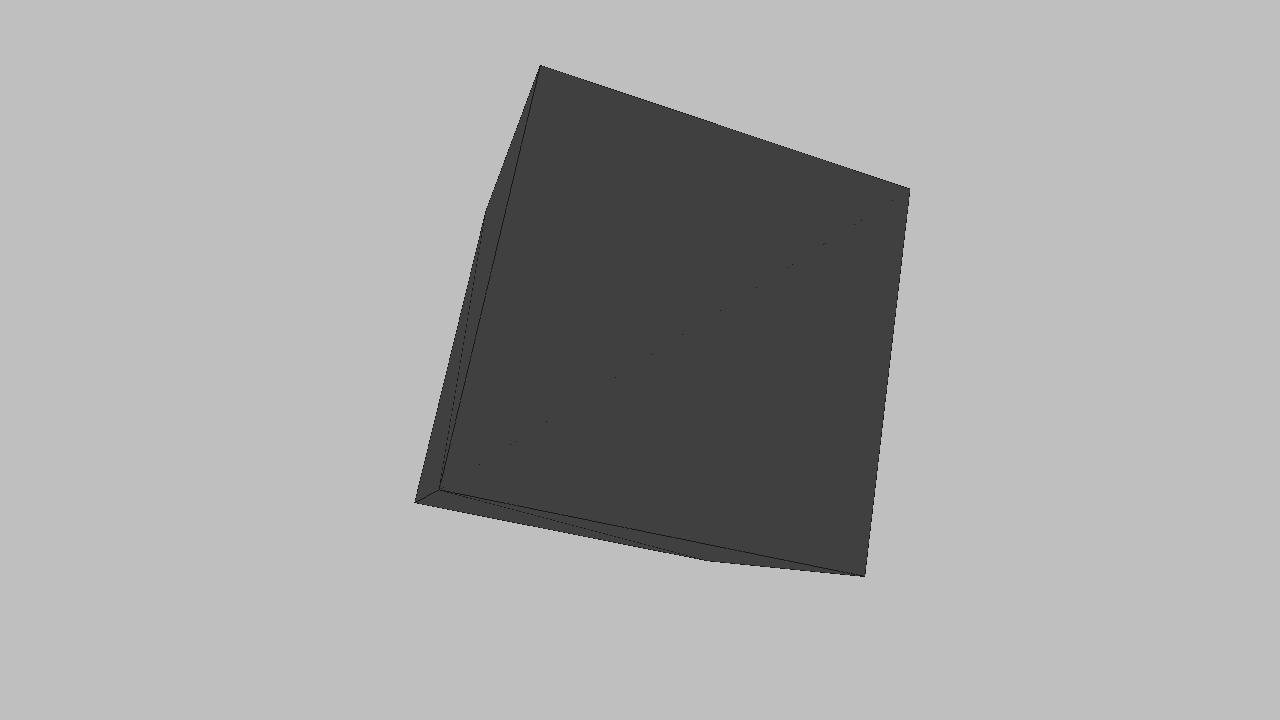
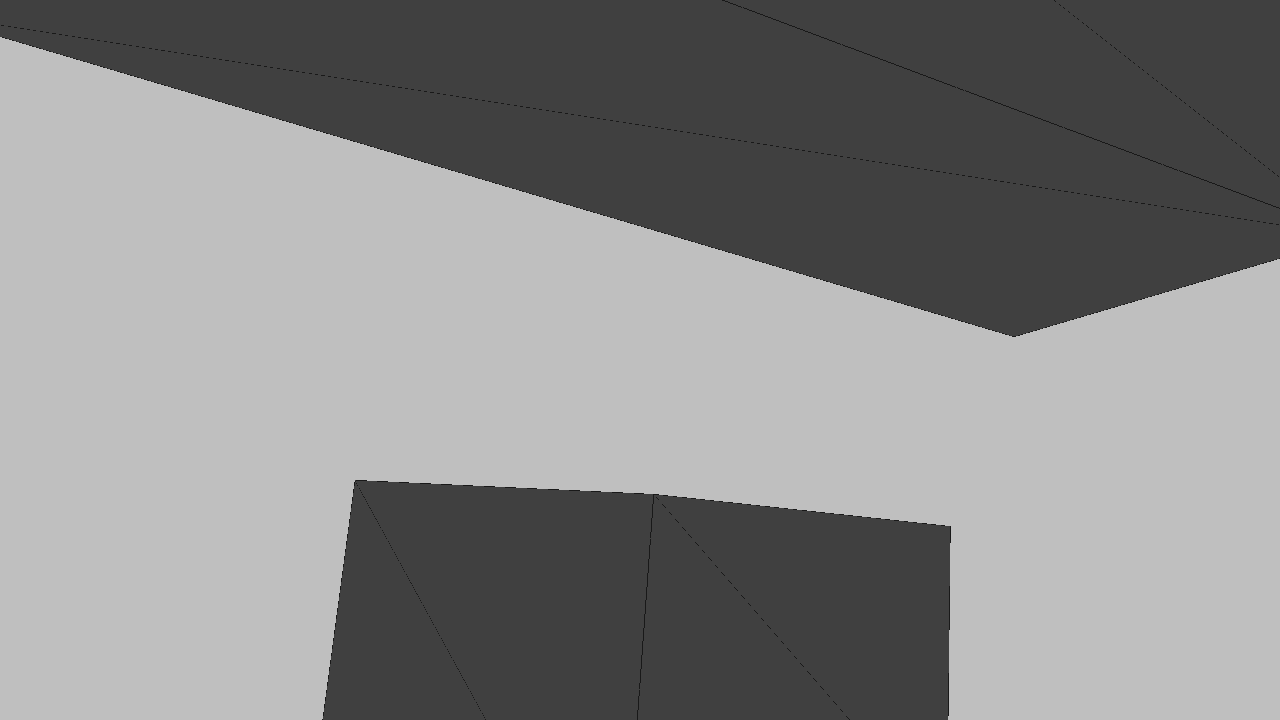
Intersection test RT

diff --git a/OpenGL/OpenGL-Sandbox/src/MyCore/RayTracer/Renderer.cpp b/OpenGL/OpenGL-Sandbox/src/MyCore/RayTracer/Renderer.cpp
@@ -7,10 +7,10 @@ void RTRender(Scene& scene, unsigned int width, unsigned int height, std::string
 
 	// Camera
 	float viewport_height = 2.0f;
-	float viewport_width = aspect_ratio * viewport_height;
+	float viewport_width = scene.GetAspect() * viewport_height;
 	float focal_length = 1.0f;
 
-	glm::vec3 origin(0.0f, 0.0f, 0.0f);
+	glm::vec3 origin = scene.GetCameraPosition();
 	glm::vec3 horizontal(viewport_width, 0.0f, 0.0f);
 	glm::vec3 vertical(0.0f, viewport_height, 0.0f);
 	glm::vec3 lower_left_corner = origin - horizontal / 2.0f - vertical / 2.0f - glm::vec3(0.0f, 0.0f, focal_length);
@@ -25,7 +25,7 @@ void RTRender(Scene& scene, unsigned int width, unsigned int height, std::string
 	{
 		for (int i = 0; i < width; ++i)
 		{
-			if (count % 1000 == 0)
+			if (count % 3000 == 0)
 			{
 				buff = Convert(count / nPixels * 100.0f) + "%";
 				LOG_INFO(buff.c_str());
@@ -34,7 +34,7 @@ void RTRender(Scene& scene, unsigned int width, unsigned int height, std::string
 			float u = float(i) / (width - 1);
 			float v = float(j) / (height - 1);
 			Ray ray(origin, lower_left_corner + u * horizontal + v * vertical - origin);
-			glm::vec3 pixel_color = ray_color(ray);
+			glm::vec3 pixel_color = ray_color(scene, ray, 0);
 
 			pixels[count++] = (unsigned int)(pixel_color.x * 255);
 			pixels[count++] = (unsigned int)(pixel_color.y * 255);
@@ -49,34 +49,133 @@ void RTRender(Scene& scene, unsigned int width, unsigned int height, std::string
 	LOG_INFO(buff.c_str());
 }
 
-float hit_sphere(const glm::vec3& center, float radius, Ray& ray) {
-	glm::vec3 oc = ray.GetOrigin() - center;
-	auto a = glm::dot(ray.GetDirection(), ray.GetDirection());
-	auto b = 2.0f * glm::dot(oc, ray.GetDirection());
-	auto c = glm::dot(oc, oc) - radius * radius;
-	auto discriminant = b * b - 4.0f * a * c;
-	if (discriminant < 0)
+glm::vec3 ray_color(Scene& scene, Ray& primRay, int depth)
+{
+	hit_record hit;
+	float minDist = FLT_MAX; // std::numeric_limits<float>::max();
+
+	bool hitMesh = false;
+	std::list<SceneNode> objects = scene.GetNodes();
+	auto hitObject = objects.begin();
+
+	// for (auto& it : objects)
+	for (auto it = objects.begin(); it != objects.end(); ++it)
 	{
-		return -1.0f;
+		if (Intersect(*it, primRay, hit))
+		{
+			float distance = glm::distance(scene.GetCameraPosition(), hit.m_Point);
+			if (distance < minDist)
+			{
+				hitMesh = true;
+				hitObject = it;
+			}
+		}
 	}
-	else
+
+	if (!hitMesh) // Background
 	{
-		return (-b - sqrt(discriminant)) / (2.0f * a);
+		glm::vec3 uDir = glm::normalize(primRay.GetDirection());
+		float t = 0.5f * (uDir.y + 1.0f);
+		return (1.0f - t) * glm::vec3(1.0f, 1.0f, 1.0f) + t * glm::vec3(0.1f, 0.3f, 0.4f);
 	}
+
+	/*if (hitObject != objects.end())
+	{
+
+	}*/
+
+	return glm::vec3(1.0f);
 }
 
-glm::vec3 ray_color(Ray& ray)
+bool Intersect(SceneNode& node, Ray& ray, hit_record& hit)
 {
-	float t = hit_sphere(glm::vec3(0.0f, 0.0f, -1.0f), 0.5f, ray);
-	if (t > 0.0f)
+	bool intersect = false;
+	float tNear = FLT_MAX;
+
+	glm::mat4 modelMatrix = node.GetModelMatrix();
+
+	for (int i = 0; i < node.GetNumFaces(); ++i)
 	{
-		glm::vec3 N = glm::normalize(ray.at(t) - glm::vec3(0.0f, 0.0f, -1.0f));
-		return 0.5f * glm::vec3(N.x + 1.0f, N.y + 1.0f, N.z + 1.0f);
+		std::vector<Vertex> vertices = node.GetFace(i);
+		vertices[0].Position = modelMatrix * glm::vec4(vertices[0].Position, 1.0f);
+		vertices[1].Position = modelMatrix * glm::vec4(vertices[1].Position, 1.0f);
+		vertices[2].Position = modelMatrix * glm::vec4(vertices[2].Position, 1.0f);
+
+		auto test = modelMatrix * glm::vec4(1.0f);
+
+		glm::vec3 normalF = node.GetNormal(i);
+
+		float t = FLT_MAX;
+		if (IntersectTriangle(vertices, normalF, ray, t) && t < tNear)
+		{
+			hit.m_Point = ray.at(t);
+			hit.t = t;
+
+			tNear = t;
+			intersect = true;
+		}
 	}
 
-	glm::vec3 uDir = glm::normalize(ray.GetDirection());
-	float t = 0.5f * (uDir.y + 1.0f);
-	return (1.0f - t) * glm::vec3(1.0f, 1.0f, 1.0f) + t * glm::vec3(0.5f, 0.7f, 1.0f);
+	return intersect;
+}
+
+bool IntersectTriangle(std::vector<Vertex>& vertices, glm::vec3& normal, Ray& ray, float& t)
+{
+	glm::vec3 edge1 = vertices[1].Position - vertices[0].Position;
+	glm::vec3 edge2 = vertices[2].Position - vertices[0].Position;
+	glm::vec3 pvec = glm::cross(ray.GetDirection(), edge2);
+	float det = glm::dot(edge1, pvec);
+	if (det <= 0) return false;
+
+	glm::vec3 tvec = ray.GetOrigin() - vertices[0].Position;
+	float u = glm::dot(tvec, pvec);
+	if (u < 0 || u > det) return false;
+
+	glm::vec3 qvec = glm::cross(tvec, edge1);
+	float v = glm::dot(ray.GetDirection(), qvec);
+	if (v < 0 || u + v > det) return false;
+
+	float invDet = 1 / det;
+
+	t = glm::dot(edge2, qvec) * invDet;
+
+	return true;
+
+	/*// Check if ray and plane are parallel
+	float dotDir = glm::dot(normal, ray.GetDirection());
+	if (fabs(dotDir) < EPSILON) false;
+
+	// Compute d from the equation of a plane - ax + by + cz + d = 0, n = (a,b,c)
+	float d = glm::dot(normal, vertices[0].Position);
+
+	// Compute t
+	float dotOrigin = glm::dot(normal, ray.GetOrigin());
+	t = -(dotOrigin + d) / dotDir;
+	if (t < 0) false; // Triangle is behind ray
+
+	// Compute intersection point with plane
+	glm::vec3 hitPoint = ray.at(t);
+
+	// Check if intersection point is inside triangle
+	glm::vec3 C;
+
+	glm::vec3 v01 = vertices[1].Position - vertices[0].Position;
+	glm::vec3 v12 = vertices[2].Position - vertices[1].Position;
+	glm::vec3 v20 = vertices[0].Position - vertices[2].Position;
+
+	glm::vec3 vp0 = hitPoint - vertices[0].Position;
+	C = glm::cross(v01, vp0);
+	if (glm::dot(normal, C) < 0.0f) return false;
+
+	glm::vec3 vp1 = hitPoint - vertices[1].Position;
+	C = glm::cross(v12, vp1);
+	if (glm::dot(normal, C) < 0.0f) return false;
+
+	glm::vec3 vp2 = hitPoint - vertices[2].Position;
+	C = glm::cross(v20, vp2);
+	if (glm::dot(normal, C) < 0.0f) return false;
+
+	return true;*/
 }
 
 std::string Convert(float number)

diff --git a/OpenGL/OpenGL-Sandbox/src/MyCore/Mesh/Mesh.cpp b/OpenGL/OpenGL-Sandbox/src/MyCore/Mesh/Mesh.cpp
@@ -52,6 +52,25 @@ void Mesh::Draw()
 	glDrawElements(GL_TRIANGLES, m_ib.GetCount(), GL_UNSIGNED_INT, nullptr);
 }
 
+std::vector<Vertex> Mesh::GetFace(int nFace)
+{
+	int pos = nFace * 3;
+	std::vector<Vertex> vertices;
+	vertices.push_back(m_Vertices[m_Indices[pos]]);
+	vertices.push_back(m_Vertices[m_Indices[pos + 1]]);
+	vertices.push_back(m_Vertices[m_Indices[pos + 2]]);
+	return vertices;
+}
+
+glm::vec3 Mesh::GetNormal(int nFace)
+{
+	int pos = nFace * 3;
+	glm::vec3 v1 = m_Vertices[m_Indices[pos + 1]].Position - m_Vertices[m_Indices[pos]].Position;
+	glm::vec3 v2 = m_Vertices[m_Indices[pos + 2]].Position - m_Vertices[m_Indices[pos]].Position;
+	glm::vec3 normal = glm::normalize(glm::cross(v1, v2));
+	return normal;
+}
+
 void Mesh::loadMesh(const std::string& path)
 {
 	LOG_INFO("Loading mesh - Assimp");

diff --git a/OpenGL/OpenGL-Sandbox/src/MyCore/Scene/Scene.h b/OpenGL/OpenGL-Sandbox/src/MyCore/Scene/Scene.h
@@ -25,6 +25,11 @@ public:
 
 	void Setup();
 	void Draw(GLCore::Utils::Shader* shader);
+
+	int GetNumFaces() const { return m_Mesh.GetNumFaces(); }
+	std::vector<Vertex> GetFace(int nFace) { return m_Mesh.GetFace(nFace); }
+	glm::vec3 GetNormal(int nFace) { return m_Mesh.GetNormal(nFace); }
+	glm::mat4 GetModelMatrix() const { return m_ModelMatrix; }
 private:
 	std::string m_Name;
 
@@ -44,6 +49,8 @@ public:
 	void Draw(GLCore::Utils::Shader* shader);
 
 	float GetAspect() const { return m_aspect; }
+	glm::vec3 GetCameraPosition() const { return m_Camera.GetPosition(); }
+	const std::list<SceneNode> GetNodes() const { return m_Nodes; }
 private:
 	void LoadSceneScript(const std::string& filepath);
 private:

diff --git a/OpenGL/OpenGL-Sandbox/src/MyCore/RayTracer/Renderer.h b/OpenGL/OpenGL-Sandbox/src/MyCore/RayTracer/Renderer.h
@@ -3,8 +3,14 @@
 #include "Ray.h"
 #include "Scene/Scene.h"
 
+constexpr auto MAX_RAY_DEPTH = 1;
+constexpr auto EPSILON = 1e-1;
+
 void RTRender(Scene& scene, unsigned int width, unsigned int height, std::string imgName);
 
-glm::vec3 ray_color(Ray& ray);
+glm::vec3 ray_color(Scene& scene, Ray& primRay, int depth);
+bool Intersect(SceneNode& node, Ray& ray, hit_record& hit);
+bool IntersectTriangle(std::vector<Vertex>& vertices, glm::vec3& normal, Ray& ray, float& t);
 
+// Utils
 std::string Convert(float number);

diff --git a/OpenGL/OpenGL-Sandbox/src/MyCore/Mesh/Mesh.h b/OpenGL/OpenGL-Sandbox/src/MyCore/Mesh/Mesh.h
@@ -23,6 +23,10 @@ public:
 
 	void Setup();
 	void Draw();
+
+	int GetNumFaces() const { return (int)(m_Indices.size() / 3.0f); }
+	std::vector<Vertex> GetFace(int nFace);
+	glm::vec3 GetNormal(int nFace);
 private:
 	void loadMesh(const std::string& path);
 	void processNode(aiNode* node, const aiScene* scene);

diff --git a/OpenGL/OpenGL-Sandbox/src/SandboxLayer.cpp b/OpenGL/OpenGL-Sandbox/src/SandboxLayer.cpp
@@ -24,9 +24,9 @@ void SandboxLayer::OnAttach()
 	glEnable(GL_DEPTH_TEST);
 	glDepthFunc(GL_LESS);
 
-	/*glEnable(GL_CULL_FACE);
+	glEnable(GL_CULL_FACE);
 	glCullFace(GL_BACK);
-	glFrontFace(GL_CCW);*/
+	glFrontFace(GL_CCW);
 
 	glEnable(GL_BLEND);
 	glBlendFunc(GL_SRC_ALPHA, GL_ONE_MINUS_SRC_ALPHA);

diff --git a/OpenGL/OpenGL-Sandbox/src/MyCore/RayTracer/Ray.h b/OpenGL/OpenGL-Sandbox/src/MyCore/RayTracer/Ray.h
@@ -19,3 +19,9 @@ private:
 	glm::vec3 m_Origin;
 	glm::vec3 m_Direction;
 };
+
+struct hit_record {
+	glm::vec3 m_Point;
+	glm::vec3 m_Normal;
+	float t;
+};
